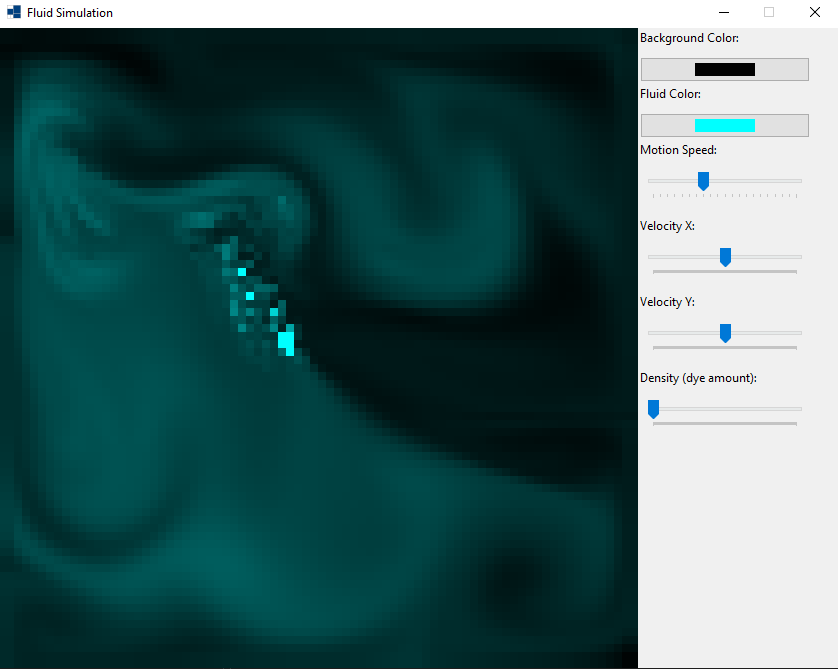
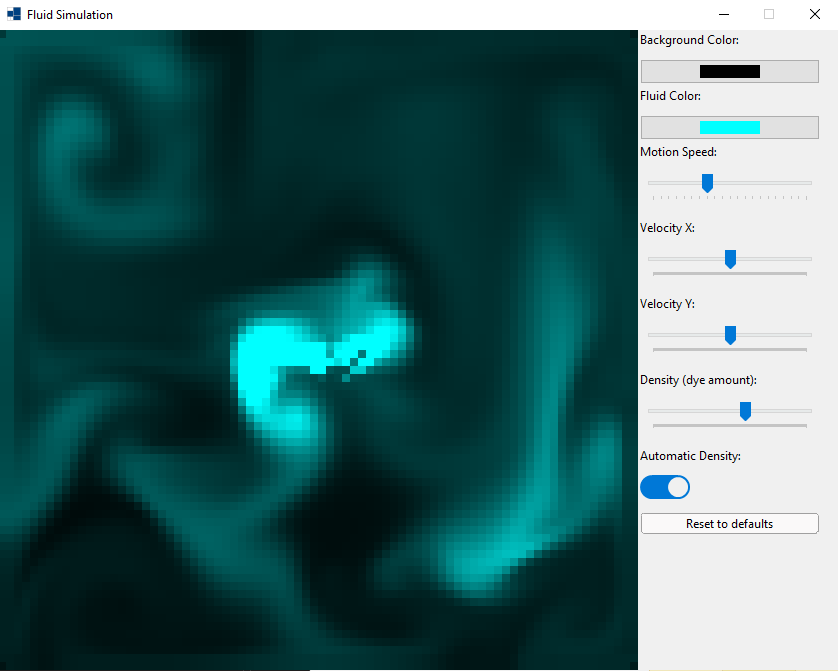
added reset to defaults button
fixed density amount issue

added automatic density switch button

diff --git a/src/main_form.cpp b/src/main_form.cpp
@@ -39,7 +39,7 @@ main_form::main_form() :
   m_bcp_label.parent(m_vlayout);
   m_bcp_label.text("Background Color:");
   m_cp_background_color.parent(m_vlayout);
-  m_cp_background_color.width(170);
+  m_cp_background_color.width(180);
   m_cp_background_color.color(m_animation->back_color());
   m_cp_background_color.color_picker_changed += [&](object& sender, const color_picker_event_args& e){
     m_animation->back_color(e.color());
@@ -48,7 +48,7 @@ main_form::main_form() :
   m_cp_label.parent(m_vlayout);
   m_cp_label.text("Fluid Color:");
   m_cp_fluid_color.parent(m_vlayout);
-  m_cp_fluid_color.width(170);
+  m_cp_fluid_color.width(180);
   m_cp_fluid_color.color(m_fluid->get_color());
   m_cp_fluid_color.color_picker_changed += [&](object& sender, const color_picker_event_args& e) {
     m_fluid->set_color(e.color());
@@ -58,7 +58,7 @@ main_form::main_form() :
   m_tb_label.parent(m_vlayout);
   m_tb_label.text("Motion Speed:");
   m_tb_speed.parent(m_vlayout);
-  m_tb_speed.width(170);
+  m_tb_speed.width(180);
   m_tb_speed.value(m_fluid->get_speed());
   m_tb_speed.minimum(m_fluid->get_min_speed());
   m_tb_speed.maximum(m_fluid->get_max_speed());
@@ -69,7 +69,7 @@ main_form::main_form() :
   m_vlx_label.parent(m_vlayout);
   m_vlx_label.text("Velocity X:");
   m_tb_velocity_x.parent(m_vlayout);
-  m_tb_velocity_x.width(170);
+  m_tb_velocity_x.width(180);
   m_tb_velocity_x.minimum(-100);
   m_tb_velocity_x.maximum(100);
   m_tb_velocity_x.value(0);
@@ -79,7 +79,7 @@ main_form::main_form() :
 
   m_vly_label.parent(m_vlayout);
   m_vly_label.text("Velocity Y:");
-  m_tb_velocity_y.width(170);
+  m_tb_velocity_y.width(180);
   m_tb_velocity_y.parent(m_vlayout);
   m_tb_velocity_y.minimum(-100);
   m_tb_velocity_y.maximum(100);
@@ -90,14 +90,35 @@ main_form::main_form() :
   
   m_density_label.parent(m_vlayout);
   m_density_label.text("Density (dye amount):");
-  m_density_label.width(170);
+  m_density_label.width(180);
   m_tb_density.parent(m_vlayout);
-  m_tb_density.width(170);
-  m_tb_density.value(static_cast<int>(m_density));
-  m_tb_density.minimum(1000);
-  m_tb_density.maximum(100'000);
-  m_tb_density.value_changed += [&] {
-    m_density = static_cast<float>(m_tb_density.value());
+  m_tb_density.width(180);
+  m_tb_density.value(1000);
+  m_tb_density.minimum(500);
+  m_tb_density.maximum(3000);
+
+
+  m_auto_density_label.parent(m_vlayout);
+  m_auto_density_label.text("Automatic Density:");
+  m_auto_density_label.width(180);
+  m_sb_auto_density.parent(m_vlayout);
+  m_sb_auto_density.auto_check(true);
+  m_sb_auto_density.checked(false);
+
+
+  static splitter sp;
+  sp.parent(m_vlayout);
+  m_btn_reset.parent(m_vlayout);
+  m_btn_reset.width(180);
+  m_btn_reset.text("Reset to defaults");
+  m_btn_reset.click += [&] {
+    m_cp_background_color.color(color::black);
+    m_cp_fluid_color.color(color::cyan);
+    m_tb_speed.value(7);
+    m_tb_velocity_x.value(0);
+    m_tb_velocity_y.value(0);
+    m_tb_density.value(1000);
+    m_sb_auto_density.checked(false);
   };
 
 }
@@ -109,7 +130,7 @@ void main_form::on_animation_update(object& sender, const animation_updated_even
   if (m_animation->mouse_buttons() == mouse_buttons::left)
   {
     // Add some of dye in held location
-    m_fluid->AddDensity(static_cast<int>(m_mouse_position.x() / Fluid::SCALE), static_cast<int>(m_mouse_position.y() / Fluid::SCALE), m_density);
+    m_fluid->AddDensity(static_cast<int>(m_mouse_position.x() / Fluid::SCALE), static_cast<int>(m_mouse_position.y() / Fluid::SCALE), static_cast<float>(m_tb_density.value()));
     // note that the position bellow is from m_animation not the main form; equiv: m_animation->mouse_position()
     // Apply Mouse Drag Velocity to simulate fluid movement
     const float amount_x = static_cast<float>(m_mouse_position.x()) - m_previous_mouse_position.x();
@@ -129,6 +150,14 @@ void main_form::on_animation_update(object& sender, const animation_updated_even
         m_fluid->AddVelocity(x, y, m_velocity.x(), m_velocity.y());
       }
     }
+
+  // Add automatic density at center if switch_button is on
+  if (m_sb_auto_density.checked()) {
+    int center_x = (m_animation->width() / 2) / Fluid::SCALE;
+    int center_y = (m_animation->height() / 2) / Fluid::SCALE;
+    m_fluid->AddDensity(center_x, center_y, static_cast<float>(m_tb_density.value()));
+    m_fluid->AddVelocity(center_x, center_y, random(-3.0f, 3.0f), random(-2.0f, 2.0f));
+  }
 
   // Update Fluid
   m_fluid->Update(delta_time);

diff --git a/src/fluid.cpp b/src/fluid.cpp
@@ -91,10 +91,10 @@ void Fluid::SetBoundary(int b, float* x) noexcept
 		x[IX(N - 1, j)] = b == 1 ? -x[IX(N - 2, j)] : x[IX(N - 2, j)];
 	}
 
-	x[IX(0, 0)] = 0.5f * (x[IX(1, 0)] + x[IX(0, 1)]);
-	x[IX(0, N - 1)] = 0.5f * (x[IX(1, N - 1)] + x[IX(0, N - 2)]);
-	x[IX(N - 1, 0)] = 0.5f * (x[IX(N - 2, 0)] + x[IX(N - 1, 1)]);
-	x[IX(N - 1, N - 1)] = 0.5f * (x[IX(N - 2, N - 1)] + x[IX(N - 1, N - 2)]);
+	x[IX(0, 0)] = 0.33f * (x[IX(1, 0)] + x[IX(0, 1)]);
+	x[IX(0, N - 1)] = 0.33f * (x[IX(1, N - 1)] + x[IX(0, N - 2)]);
+	x[IX(N - 1, 0)] = 0.33f * (x[IX(N - 2, 0)] + x[IX(N - 1, 1)]);
+	x[IX(N - 1, N - 1)] = 0.33f * (x[IX(N - 2, N - 1)] + x[IX(N - 1, N - 2)]);
 
 }
 

diff --git a/src/fluid.hpp b/src/fluid.hpp
@@ -144,7 +144,7 @@ namespace xtd_fluid_simulation {
 		// Get the color of a particle at a specific location in fluid
 		xtd::drawing::color get_color_at(const int i, const int j) noexcept {
 			// Get Density 0 -> 255 alpha (background color)
-			float& density = m_density[IX(i, j)];
+			float density = m_density[IX(i, j)];
 			// So that fluid color will not turn into black when adding too much density
 			density = std::min(std::max(density, 0.0f), 255.0f); //std::clamp(density, 0.0f, 255.0f);
 			// Construct color based on density alpha

diff --git a/src/main_form.hpp b/src/main_form.hpp
@@ -47,7 +47,12 @@ namespace xtd_fluid_simulation {
 
     xtd::forms::label m_density_label;
     xtd::forms::track_bar m_tb_density;
-    float m_density = 40'000.f;
+
+    xtd::forms::label m_auto_density_label;
+    xtd::forms::switch_button m_sb_auto_density;
+
+    xtd::forms::button m_btn_reset;
+
 
     template<typename T>
     inline static T random(const T& min, const T& max) noexcept {
